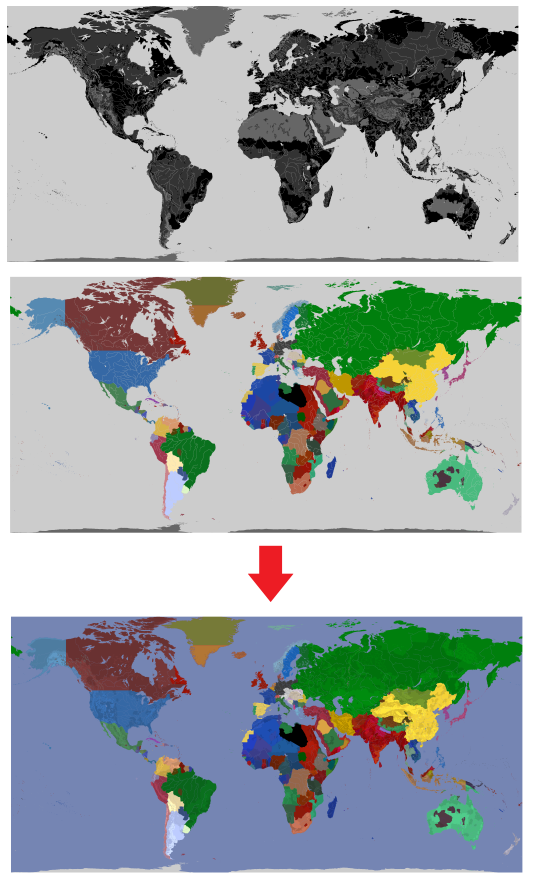
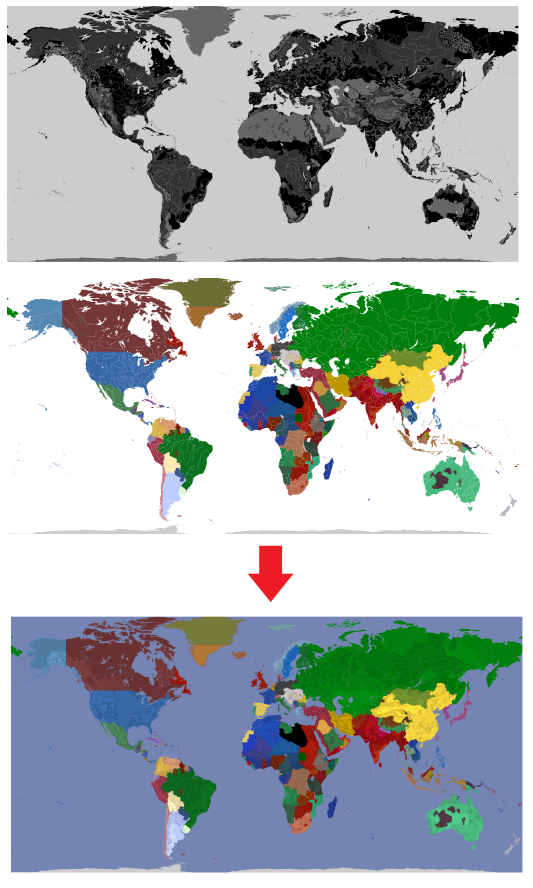
Experimental changes to political map format

Changed region(s): [[0.0, 0.3041, 0.9906, 0.6081]]

diff --git a/MainUI.cs b/MainUI.cs
@@ -39,7 +39,11 @@ namespace AoC_Image_to_Scenario_Converter
             toolTip3.SetToolTip(FlagsCheckbox, "Create a flagsheet where each nation gets a blank flag of its map color");
 
         }
+
         Image[]? PosterizedImages;
+        readonly Image Basic = Resources.BasicMode;
+        readonly Image Advanced = Resources.AdvancedMode;
+
         public void ModeSelectComboBox_SelectedIndexChanged(object sender, EventArgs e)
         {
             switch (ModeSelectComboBox.SelectedIndex)
@@ -48,7 +52,7 @@ namespace AoC_Image_to_Scenario_Converter
                     GenButton.Enabled = true;
                     PosterizationPreviewButton.Visible = false;
                     label3.Text = "Uses single image with default AoC terrain color-coding to create an empty scenario. \nMost useful for bypassing map size limit.";
-                    pictureBox1.Image = Resources.BasicMode;
+                    pictureBox1.Image = Basic;
                     File2SelectBox.Visible = false;
                     PosterizationBox.Visible = false;
                     File1SelectBox.Text = "Choose Image:";
@@ -57,10 +61,10 @@ namespace AoC_Image_to_Scenario_Converter
                 case 1:
                     GenButton.Enabled = true;
                     PosterizationPreviewButton.Visible = false;
-                    label3.Text = "Uses two images to create a scenario with countires.\nTerrain image should use standard AoC color-coding." +
-                        "\nCountries can be painted on top of the terrain image using \none unique color per nation to create the coutries image." +
+                    label3.Text = "Uses two images to create a scenario with countires.\nTerrain map should use standard AoC color-coding," +
+                        "\npolitical map(s) must use one unique color per nation\nwith no man's land remaining transparent." +
                         "\nMost useful if you want to paint countries in your image \neditor of choice instead of the one provided by the game.";
-                    pictureBox1.Image = Resources.AdvancedMode;
+                    pictureBox1.Image = Advanced;
                     PosterizationBox.Visible = false;
                     File1SelectBox.Text = "Choose Terrain Map:";
                     File1SelectBox.Visible = true;

diff --git a/AdvMode.cs b/AdvMode.cs
@@ -58,7 +58,7 @@ namespace AoC_Image_to_Scenario_Converter
                         for (int x = 0; x < w; x++)
                         {
                             CurrentRGB = PoliticalDF.GetPixel(x, y);
-                            if (UniqueColors.Contains(CurrentRGB) || citycolors.Contains(CurrentRGB) || (CurrentRGB.R == CurrentRGB.G && CurrentRGB.R == CurrentRGB.B))
+                            if (UniqueColors.Contains(CurrentRGB) || citycolors.Contains(CurrentRGB) || CurrentRGB.A == 0)
                                 continue;
                             UniqueColors.Add(CurrentRGB);
                         }
@@ -72,7 +72,6 @@ namespace AoC_Image_to_Scenario_Converter
                             if (PoliticalDF.GetPixel(x, y) == Color.FromArgb(255, 0, 0))
                             {
                                 CurrentRGB = FindNeighours(PoliticalDF, x, y);
-                                if (CurrentRGB.R == CurrentRGB.G && CurrentRGB.R == CurrentRGB.B) continue;
                                 countries.Add([id, x, h - y - 1, CurrentRGB.R, CurrentRGB.G, CurrentRGB.B]);
                                 while (UniqueColors.Remove(CurrentRGB)) { }
                                 id++;
@@ -102,7 +101,7 @@ namespace AoC_Image_to_Scenario_Converter
                         for (int x = 0; x < w; x++)
                         {
                             CurrentRGB = PoliticalDF.GetPixel(x, y);
-                            if (UniqueColors.Contains(CurrentRGB) || (CurrentRGB.R == CurrentRGB.G && CurrentRGB.R == CurrentRGB.B))
+                            if (UniqueColors.Contains(CurrentRGB) || CurrentRGB.A == 0)
                                 continue;
                             countries.Add([id, x, h - y - 1, CurrentRGB.R, CurrentRGB.G, CurrentRGB.B]);
                             UniqueColors.Add(CurrentRGB);

diff --git a/MainUI.Designer.cs b/MainUI.Designer.cs
@@ -469,7 +469,7 @@
             Margin = new Padding(4, 3, 4, 3);
             MaximizeBox = false;
             Name = "MainUI";
-            Text = "Image to Scenario Converter v3.2.1";
+            Text = "Image to Scenario Converter v3.3.0-pre1";
             Load += MainUI_Load;
             ((System.ComponentModel.ISupportInitialize)pictureBox1).EndInit();
             ((System.ComponentModel.ISupportInitialize)PosterizationTrackBar).EndInit();
